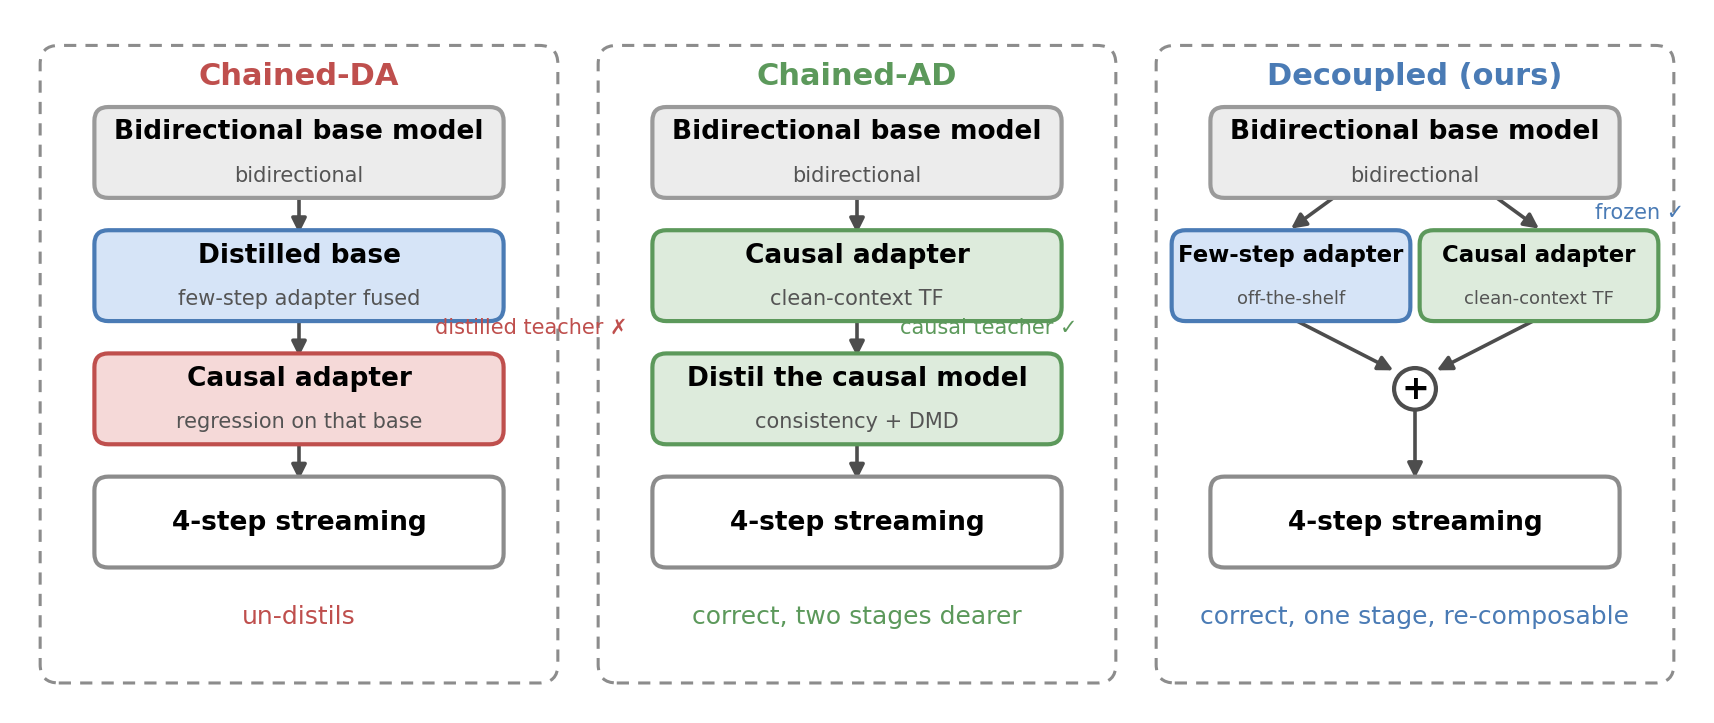
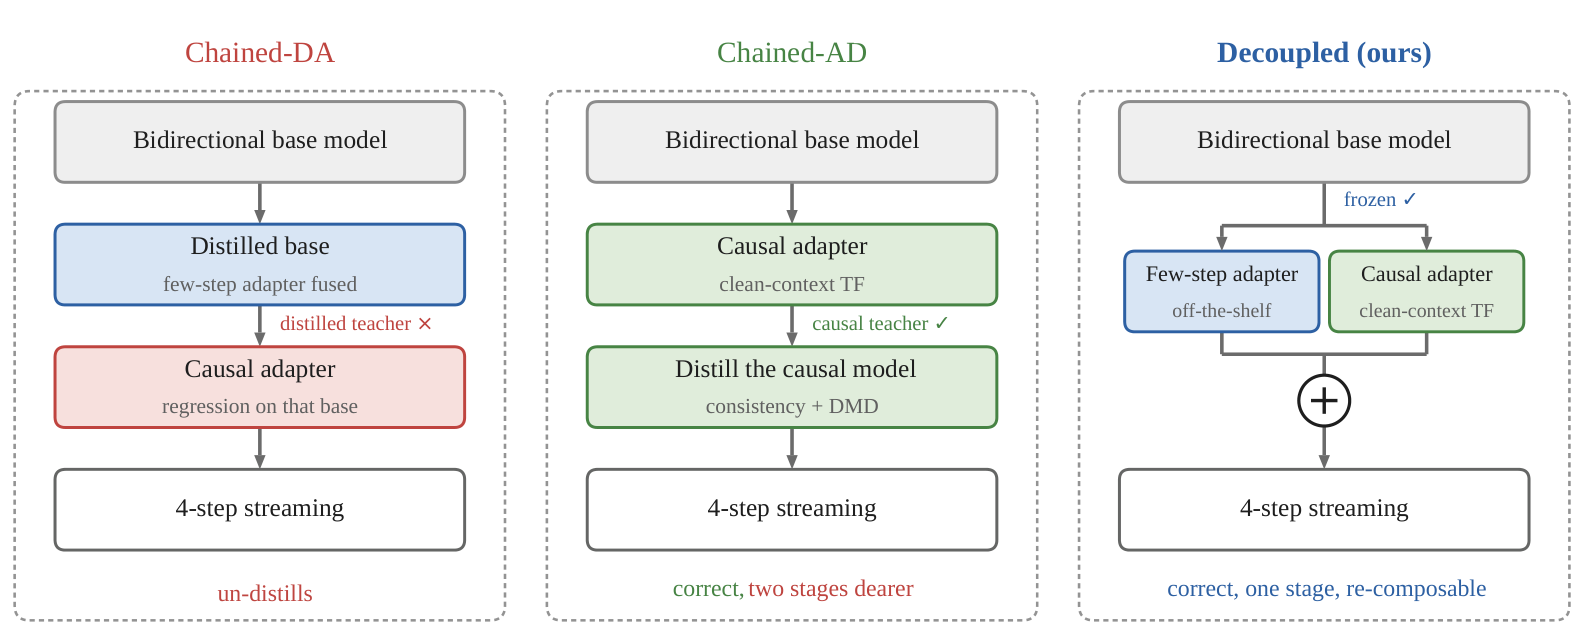
Use Figure 1 from the ICLR camera PDF as the routes diagram.

diff --git a/index.html b/index.html
@@ -110,7 +110,7 @@
   </p>
 
   <figure class="figure wide">
-    <img src="static/figs/fig_routes.png?v=0628428" alt="Three routes to a few-step streaming model and what the ordering costs">
+    <img src="static/figs/fig_routes.png?v=paper-fig1" alt="Three routes to a few-step streaming model and what the ordering costs">
     <figcaption>
       <b>Three routes to a few-step streaming model, and what the order costs.</b>
       Distilling last keeps the chain viable, at two extra stages. The reverse order, trained with a
